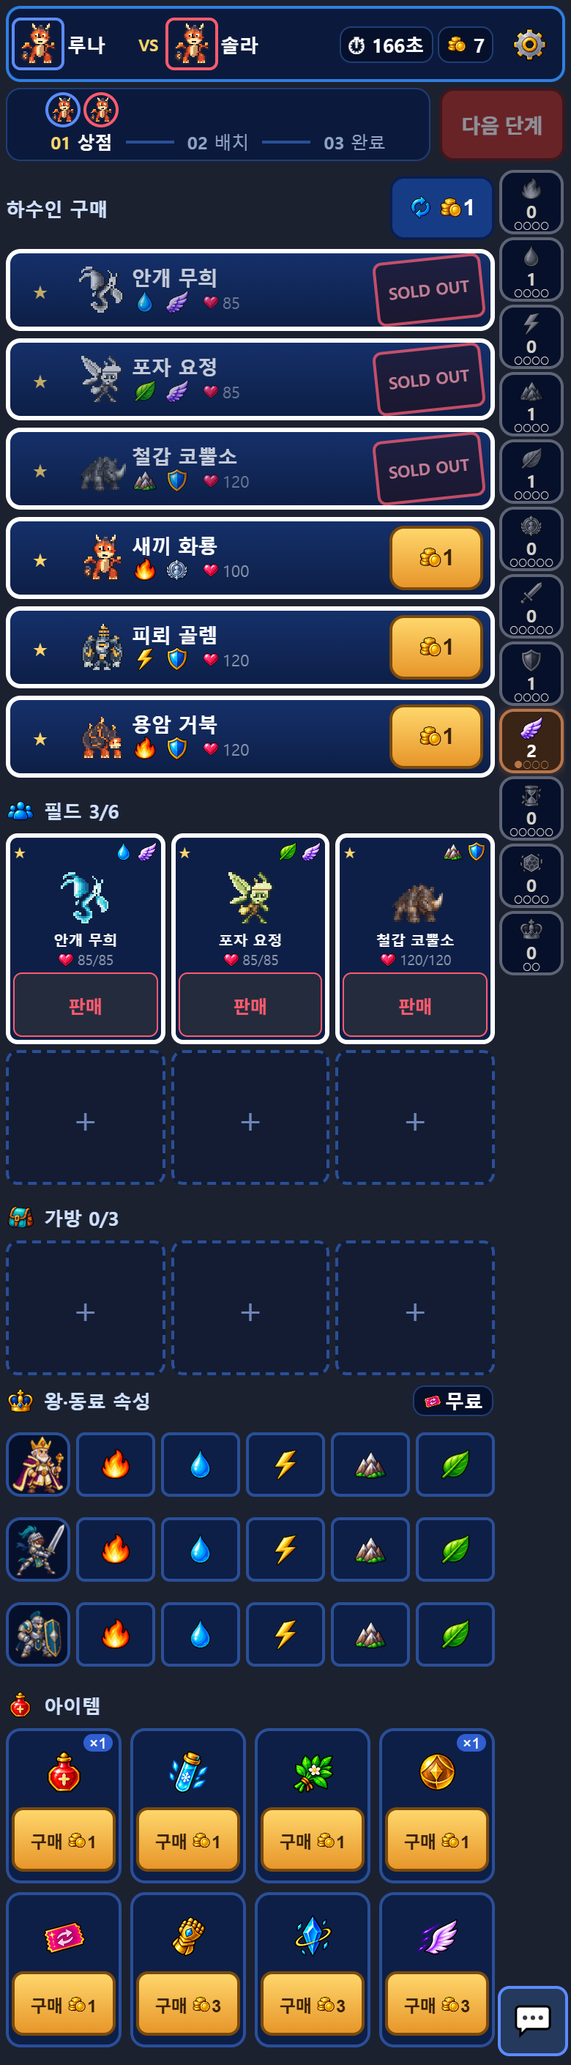
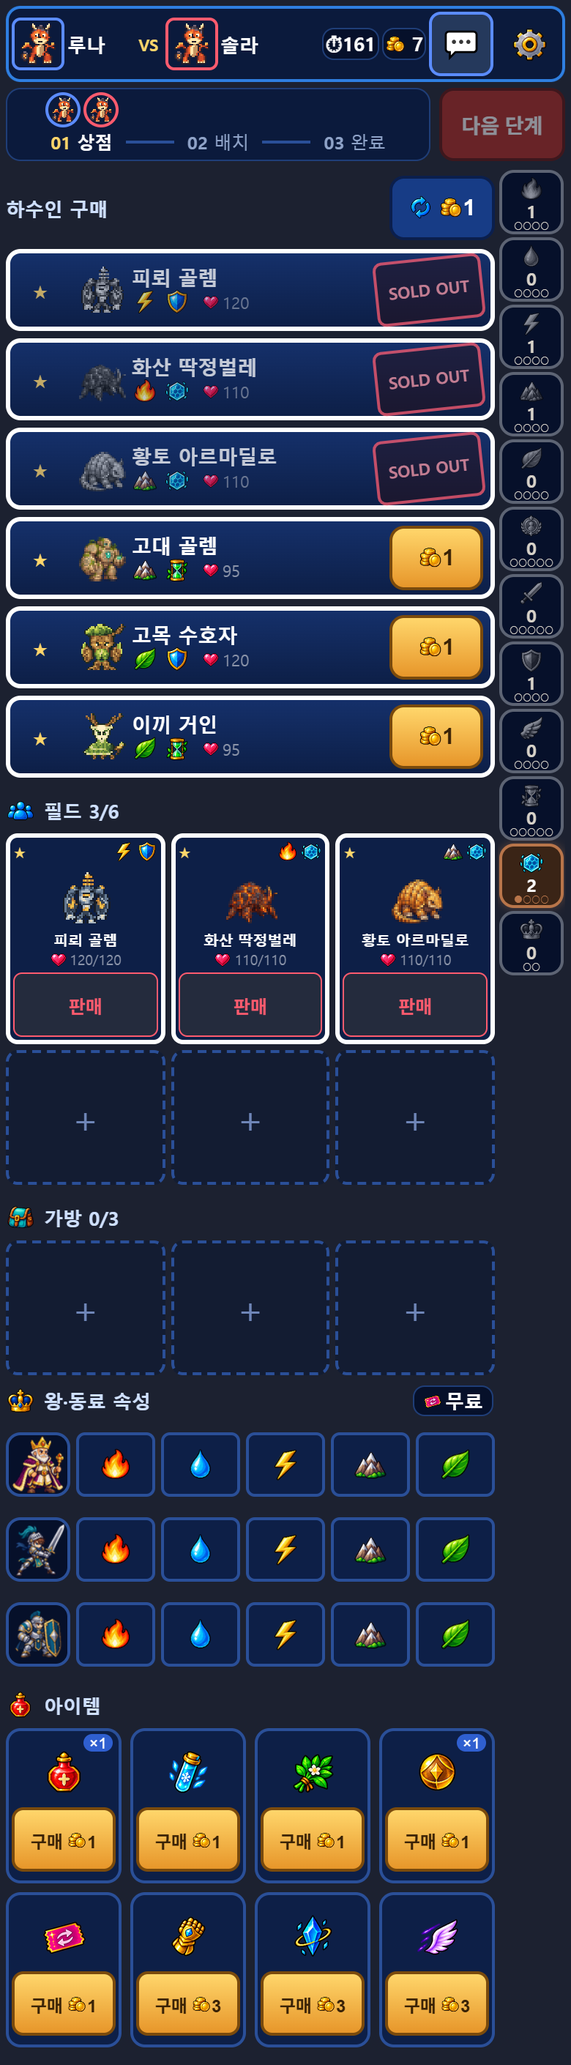
feat: connect digit-duel.site and align start-shop emotes (#313)

diff --git a/demo/css/game.css b/demo/css/game.css
@@ -1204,9 +1204,9 @@ body:has(#emoteLayer.inRoom:not(.hidden)) .waitScreen .chatLock{margin-right:58p
 #app[data-flow] .prepStep{display:flex; flex-direction:column; gap:6px;}
 #app[data-flow] .prepStep[data-step="place"]{display:contents;} /* 트레이가 말판과 같은 스크롤 상자의 자식이어야 아래에 붙는다(sticky) — 말판 13행과 트레이가 한 화면에 든다 */
 #app[data-flow] #toasts{top:112px;} /* 상단 한 줄·진행 막대를 가리지 않게 그 아래로 */
-/* 이모티콘 버튼은 ⚙ 와 겹치지 않게 시너지 열 아래 빈 자리(오른쪽 아래)로 — 팝오버는 그 위로 열린다 */
-#app[data-flow] ~ #emoteLayer #emoteBtn{top:calc(100dvh - 54px); right:2px;}
-#app[data-flow] ~ #emoteLayer #emotePop{top:auto; bottom:calc(58px - 100dvh);}
+#app[data-flow] ~ #emoteLayer #emoteBtn{top:var(--emoT,4px); right:var(--emoR,54px); min-width:44px; height:44px; font-size:20px;} /* #313 CJ: 턴 상점과 같은 상단 한 줄 ⚙ 왼쪽 자리(emoteSync 가 잰다) */
+#app[data-flow] ~ #emoteLayer #emotePop{top:calc(var(--emoT,4px) + 50px);}
+.flowHead .tbTools .emoSlot{height:44px;}
 #app[data-flow] ~ #emoteLayer #emoteBubs{top:110px;}
 #app[data-flow][data-prep="roster"] .prepStep[data-step="place"],#app[data-flow][data-prep="place"] .prepStep[data-step="roster"]{display:none;}
 .flowHead{order:-1; position:sticky; top:0; z-index:5; flex:0 0 auto; margin-right:-48px; padding:4px 0; display:flex; flex-direction:column; gap:4px;
@@ -1455,11 +1455,11 @@ body .overlay:has(.shopSheet.turn){align-items:flex-start; padding-top:var(--app
 .shopTop .flowBar{padding:0 4px;} .shopTop .synRail{right:2px;}
 .shopTop .synRail{max-height:calc(var(--appH) - 116px);} /* 프레임 높이 − 머리(상단 한 줄 52 + 완료 줄 44 + 간격) − 아래 여백 — 마지막 칩까지 열 안 스크롤로 닿는다 */
 /* 오른쪽 50% 한 줄: 내 시계 · 내 코인 · 이모티콘 자리 44 · ⚙ 44 (이모티콘이 꺼진 경기는 자리도 없다). 시계 칸은 숫자만 받아(.cmp) ⏱ · 초 · 정지(⏸)를 CSS 가 붙인다 — 전체 문장은 aria-label */
-.shopTop .tbTools{gap:3px; padding:0 2px 0 0;}
-.shopTop .tbTools .badge{flex:0 0 auto; overflow:visible; padding:2px 4px; font-size:13px; line-height:16px; font-variant-numeric:tabular-nums;}
+.shopTop .tbTools,.flowHead .tbTools{gap:3px; padding:0 2px 0 0;}
+.shopTop .tbTools .badge,.flowHead .tbTools .badge{flex:0 0 auto; overflow:visible; padding:2px 4px; font-size:13px; line-height:16px; font-variant-numeric:tabular-nums;}
 .shopTop .tbTools .emoSlot,.battleTop .tbTools .emoSlot{height:44px;}
-.shopTop .clk.cmp::before{content:"⏱ ";} .shopTop .clk.cmp::after{content:"초";} .shopTop .clk.cmp.pz::before{content:"⏸ ";}
-.shopTop .clk.pz{color:#ffd66b;}
+.clk.cmp::before{content:"⏱ ";} .clk.cmp::after{content:"초";} .clk.cmp.pz::before{content:"⏸ ";} /* #313: 시작 상점 #prepClock 도 같은 짧은 시계 */
+.clk.pz{color:#ffd66b;}
 /* 같은 이모티콘 버튼 하나가 그 자리에 — 자리의 실제 위 · 오른쪽 끝은 emoteSync 가 잰다(안쪽 스크롤 막대 · PC 프레임 포함) */
 body:has(#overlay:not(.hidden) .shopSheet.turn) #emoteLayer #emoteBtn,body:has(#overlay:not(.hidden) .battleTop) #emoteLayer #emoteBtn{top:var(--emoT,8px); right:var(--emoR,54px); min-width:44px; height:44px; font-size:20px;}
 body:has(#overlay:not(.hidden) .shopSheet.turn) #emoteLayer #emotePop,body:has(#overlay:not(.hidden) .shopSheet.turn) #emoteLayer #emoteBubs,body:has(#overlay:not(.hidden) .battleTop) #emoteLayer #emotePop,body:has(#overlay:not(.hidden) .battleTop) #emoteLayer #emoteBubs{top:calc(var(--emoT,8px) + 50px);}
@@ -1474,14 +1474,14 @@ body:has(#overlay:not(.hidden) .shopSheet.turn) #emoteLayer #emotePop,body:has(#
 .shopSheet .shopCard.soldOut{opacity:1;} .shopSheet .shopCard.soldOut>*{opacity:.75;}
 /* 320: 시계 = 숫자만(정지는 왼쪽 두 줄 막대 + 색) · 코인 = 아이콘 + 숫자 — 세 자리 초 · 세 자리 코인 · 이모티콘 44 · ⚙ 44 가 한 줄에. 가장 긴 종 이름(7자)도 잘리지 않게 */
 @media (max-width:360px){ .shopSheet.turn{padding-right:50px;} .shopSheet.turn .shopTop{margin-right:-50px;}
-  .shopTop .tbTools{gap:1px; padding:0;} .shopTop .tbTools .emoSlot{margin-right:2px;}
-  .shopTop .tbTools .badge{padding:2px 1px; border:0; font-size:11px; letter-spacing:-.3px;} .shopTop .tbTools .badge .gi{font-size:11px;}
-  .shopTop .clk.cmp::before,.shopTop .clk.cmp::after,.shopTop .clk.cmp.pz::before{content:none;} .shopTop .tbTools .clk.pz{border-left:3px double #ffd66b; padding-left:2px;}
+  .shopTop .tbTools,.flowHead .tbTools{gap:1px; padding:0;} .shopTop .tbTools .emoSlot,.flowHead .tbTools .emoSlot{margin-right:2px;}
+  .shopTop .tbTools .badge,.flowHead .tbTools .badge{padding:2px 1px; border:0; font-size:11px; letter-spacing:-.3px;} .shopTop .tbTools .badge .gi,.flowHead .tbTools .badge .gi{font-size:11px;}
+  .clk.cmp::before,.clk.cmp::after,.clk.cmp.pz::before{content:none;} .tbTools .clk.pz{border-left:3px double #ffd66b; padding-left:2px;}
   .shopSheet.turn .shopCard{gap:4px;} .shopSheet.turn .shopCard .nm b{font-size:12.5px;} }
 /* 정지 중: 시트 위 잠금 안내 줄은 상단 한 줄을 밀어낸다 — 정기 상점에서는 화면 밖 접근성 전용(role=status 유지). 정지는 가운데 X01 창 · 시계 ⏸ 가 보인다 */
 fieldset.pauseLock:has(>.shopSheet.turn)>small{position:absolute; width:1px; height:1px; overflow:hidden; clip:rect(0 0 0 0); white-space:nowrap;}
 /* ≤420(모바일 390 등): 시계는 '⏱180'(초 글자 없이 · 정지는 ⏸) — 오른쪽 50% 를 넘어 신원 칸으로 밀려나지 않게. 전체 문장은 aria-label */
-@media (max-width:420px) and (min-width:361px){ .shopTop .tbTools{gap:2px;} .shopTop .tbTools .emoSlot{margin-right:1px;} .shopTop .tbTools .badge{padding:2px 1px;} .shopTop .clk.cmp::before{content:"⏱";} .shopTop .clk.cmp.pz::before{content:"⏸";} .shopTop .clk.cmp::after{content:none;} }
+@media (max-width:420px) and (min-width:361px){ .shopTop .tbTools,.flowHead .tbTools{gap:2px;} .shopTop .tbTools .emoSlot,.flowHead .tbTools .emoSlot{margin-right:1px;} .shopTop .tbTools .badge,.flowHead .tbTools .badge{padding:2px 1px;} .clk.cmp::before{content:"⏱";} .clk.cmp.pz::before{content:"⏸";} .clk.cmp::after{content:none;} }
 /* ===== #296 전투 화면 (CJ 콘티 2026-10-02) — 기존 부품(.topBar · .synChip · .skillCmd · #bstage) 위의 배치만. 새 자산 · 새 렌더러 없음 =====
    위에서부터: 공용 신원 한 줄 / 차례 + 왕국·개인 칩 / 라운드 + 내 시계 + 아키타입 칩 / 무대(상대 정보 좌상 · 상대 그림 우상 · 내 그림 좌하 · 내 정보 우하) / 전투 메시지 / 행동 */
 #overlayBox.battleBox .battleTop{margin:-6px -6px 6px; position:sticky; top:-6px; z-index:5; background:var(--panel); box-shadow:0 -8px 0 var(--panel);} /* 상점 상단 줄처럼 창 안 스크롤에도 제자리 — 고정 층의 이모티콘 버튼이 자리에서 떨어지지 않는다. top = 위 여백(-6px)과 같은 값(기준은 창의 안쪽 여백 끝)이라 스크롤 전 자리 그대로 · 위 8px 틈은 그림자로 가린다 */

diff --git a/demo/js/ui.js b/demo/js/ui.js
@@ -1174,7 +1174,7 @@ function emoteSync(){
   try{ L.classList.toggle("inRoom",!!cl); L.style.top=cl&&cl.getBoundingClientRect?Math.round(cl.getBoundingClientRect().top)+"px":""; }catch(e){}
   /* 말판 상단 한 줄의 감정표현 자리(.emoSlot) 실제 오른쪽 끝에 맞춘다 — 말판 안쪽 스크롤 막대가 생기면 ⚙·자리가 그 폭만큼 왼쪽으로 가므로 고정 px 로는 ⚙와 겹친다. 자리가 없으면 CSS 기본값 */
   /* #295 CJ REVISE: 정기 상점 시트가 열려 있으면 그 상단 한 줄의 자리(.shopTop .emoSlot)가 우선 — 같은 버튼 하나가 그 자리에 놓인다(위쪽 --emoT 는 상점 규칙만 읽는다) */
-  try{ const sl=document.querySelector?document.querySelector("#overlay:not(.hidden) .shopTop .emoSlot,#overlay:not(.hidden) .battleTop .emoSlot")||document.querySelector("#boardInfo .emoSlot"):null, r=sl&&sl.getBoundingClientRect?sl.getBoundingClientRect():null, lr=r&&r.width?L.getBoundingClientRect():null;
+  try{ const sl=document.querySelector?document.querySelector("#overlay:not(.hidden) .shopTop .emoSlot,#overlay:not(.hidden) .battleTop .emoSlot")||document.querySelector("#boardInfo .emoSlot,.flowHead .emoSlot"):null, r=sl&&sl.getBoundingClientRect?sl.getBoundingClientRect():null, lr=r&&r.width?L.getBoundingClientRect():null;
     L.style.setProperty("--emoR",lr?Math.round(lr.right-r.right)+"px":""); L.style.setProperty("--emoT",lr?Math.round(r.top-lr.top)+"px":""); }catch(e){}
   const set=/** @type {HTMLFieldSetElement} */($("emoteSet"));
   if(!set.innerHTML) set.innerHTML=EMOTES.map(([id,e,ko])=>`<button type="button" data-emote="${id}" onclick="emoteSend('${id}')">${e} ${ko}</button>`).join("");
@@ -1948,7 +1948,7 @@ function prepClockStart(){
   if(NET.mode||!fxLive()||PREPCLK.g===S||isAI(S.setupPlayer)) return;   // 같은 경기의 다시 그리기·차례 넘김 = 마감 유지 · 사람 좌석이 있을 때만
   prepClockStop(); PREPCLK.g=S; PREPCLK.dl=Date.now()+ECO.prepSec*1000;
   PREPCLK.t=setTimeout(prepClockFire,ECO.prepSec*1000);
-  PREPCLK.iv=setInterval(()=>{ const el=$("prepClock"); if(el) el.textContent=turnClockText("prep"); },500);
+  PREPCLK.iv=setInterval(prepClockPaint,500);
 }
 function prepClockFire(){
   const g=PREPCLK.g; clearInterval(PREPCLK.iv); PREPCLK.iv=PREPCLK.t=null;
@@ -2054,7 +2054,8 @@ function turnClockLate(kind){
   return !!c&&c.expired;
 }
 function turnClockTick(){
-  for(const k of [["prepClock","prep"],["actClock","act"],["battleClock","battle"]]){ const el=$(k[0]); if(el) el.textContent=turnClockText(k[1]); }
+  prepClockPaint();
+  for(const k of [["actClock","act"],["battleClock","battle"]]){ const el=$(k[0]); if(el) el.textContent=turnClockText(k[1]); }
   /* 온라인에서 서버 마감이 지나는 순간 — 푸시가 오기 전에도 조작 버튼을 그 자리에서 잠근다(표시 간격이 알아챈다).
      지나간 뒤 한 번만 다시 그린다: render → turnClockSync → 여기로 돌아와도 late 가 그대로라 되풀이되지 않는다. */
   if(!NET.publicMode) return;
@@ -2262,6 +2263,7 @@ function flowHeadHtml(p,btn){
   const clock=`<span class="badge clk" id="prepClock" role="timer">${turnClockText("prep")}</span>`; // 공통 180초 — 준비 완료 뒤에도 계속 보인다
   return `<header class="flowHead">`+topBarHtml(p,clock
     +`<span class="badge coin" aria-label="재화 ${S.eco.coins[p]}">${gi("coin","cn")} ${S.eco.coins[p]}</span>`
+    +(emoteActive()?`<span class="emoSlot" aria-hidden="true"></span>`:"") // #313 CJ: 시작 상점도 턴 상점과 같은 ⚙ 왼쪽 자리
     +gearHtml(uiPubPrestart()?`<button type="button" class="danger" onclick="uiLeaveConfirm()">방 나가기</button>`:`<button type="button" class="danger" onclick="uiBack()">로비로 돌아가기</button>`))
     +`<div class="flowBar">`
     +`<ol class="flowSteps" aria-label="진행 단계 — ${nm(0)}: ${STEP[my]}${op>=0?` · ${nm(1)}: ${STEP[op]}`:""}">${STEP.map((t,i)=>`<li${i===my?` class="cur" aria-current="step"`:i<my?` class="past"`:""}><span class="mks" aria-hidden="true">${i===my?`<span class="mk me">${mk(0)}</span>`:""}${i===op?`<span class="mk op">${mk(1)}</span>`:""}</span><span><b>0${i+1}</b> ${t}</span></li>`).join("")}</ol>${btn}</div>`
@@ -2304,10 +2306,16 @@ function shopClockStart(p){
 /* #295 CJ REVISE 후속: 정기 상점 상단 한 줄(시계 · 코인 · 이모티콘 · ⚙)에 들어가게 시트의 시계 칸(#shopClock)만 짧게 그린다 — 온라인 · 오프라인 tick 이 같이 쓴다.
    값은 shopClockText 와 같은 출처(온라인 = 서버 시계 netClockMs · 오프라인 = 이 좌석 SHOPCLK 마감). 보이는 글자는 초 숫자뿐이고 ⏱/⏸ · '초'는 폭에 따라 CSS(.cmp · .pz)가 붙인다.
    전체 문장(초 · 정지 · 확인 중)은 aria-label. 온라인에서 서버 시계가 없으면 숫자를 지어내지 않고 '…', 오프라인에서 시계가 없는 좌석(AI · 가림)은 종전처럼 빈 칸 */
-function shopClockPaint(p){ const el=$("shopClock"); if(!el) return; const pub=NET.publicMode, c=pub?NET.ecoClock:null;
-  const sec=pub?(c?Math.max(0,Math.ceil(netClockMs(c)/1000)):null):SHOPCLK.key&&SHOPCLK.key.endsWith(":"+p)?Math.max(0,Math.ceil((SHOPCLK.dl-Date.now())/1000)):null, pz=!!c&&!c.running;
-  el.textContent=sec!==null?String(sec):pub?"…":"";
-  try{ if(sec===null&&!pub) el.removeAttribute("aria-label"); else el.setAttribute("aria-label",sec===null?"남은 시간 확인 중":`남은 시간 ${sec}초${pz?" · 정지":""}`); }catch(e){}
+function shopClockPaint(p){ const pub=NET.publicMode, c=pub?NET.ecoClock:null;
+  const sec=pub?(c?Math.max(0,Math.ceil(netClockMs(c)/1000)):null):SHOPCLK.key&&SHOPCLK.key.endsWith(":"+p)?Math.max(0,Math.ceil((SHOPCLK.dl-Date.now())/1000)):null;
+  clockPaint($("shopClock"),sec,pub?"…":"",!!c&&!c.running); }
+/* #313 CJ: 시작 상점 상단 한 줄도 이모티콘 자리를 받는다 — 준비 시계(#prepClock)를 정기 상점 시계와 같은 짧은 모양으로. 값은 turnClockText("prep") 와 같은 출처, 시계가 없으면 종전처럼 빈 칸 */
+function prepClockPaint(){ const pub=NET.publicMode, c=pub&&NET.ecoClock&&NET.ecoClock.key==="prep"?NET.ecoClock:null;
+  const sec=pub?(c?Math.max(0,Math.ceil(netClockMs(c)/1000)):null):PREPCLK.g===S&&PREPCLK.dl&&S.phase==="setup"?Math.max(0,Math.ceil((PREPCLK.dl-Date.now())/1000)):null;
+  clockPaint($("prepClock"),sec,"",!!c&&!c.running); }
+function clockPaint(el,sec,none,pz){ if(!el) return;
+  el.textContent=sec!==null?String(sec):none;
+  try{ if(sec===null&&!none) el.removeAttribute("aria-label"); else el.setAttribute("aria-label",sec===null?"남은 시간 확인 중":`남은 시간 ${sec}초${pz?" · 정지":""}`); }catch(e){}
   try{ el.classList.toggle("cmp",sec!==null); el.classList.toggle("pz",pz); }catch(e){} }
 function shopClockStop(){ clearTimeout(SHOPCLK.t); clearInterval(SHOPCLK.iv); SHOPCLK.t=SHOPCLK.iv=SHOPCLK.key=null; SHOPCLK.dl=0; }
 function shopClockText(p){ if(NET.publicMode) return netClockText(); return SHOPCLK.key&&SHOPCLK.key.endsWith(":"+p)?`⏱ ${Math.max(0,Math.ceil((SHOPCLK.dl-Date.now())/1000))}초`:""; }

diff --git a/server/authoritative/test/test-public-deploy.js b/server/authoritative/test/test-public-deploy.js
@@ -62,6 +62,25 @@ function unitTests() {
     eq(m.peerAllowed('192.168.1.5'), true, 'LAN 옵트인 — 사설 대역 피어 허용');
   });
 
+  section('#313 Host 허용 — 커스텀 도메인 + Render 주입 기본 주소(대체·롤백), 그 밖은 거부');
+  const CUSTOM = 'digit-duel.site';
+  const FALLBACK = 'digit-duel-mipa.onrender.com';
+  withEnv({ DD_AUTH_PUBLIC_DEPLOY: '1', DD_AUTH_PUBLIC_HOST: CUSTOM, RENDER_EXTERNAL_HOSTNAME: FALLBACK }, (m) => {
+    eq(m.allowedHost(CUSTOM), true, '커스텀 도메인 허용');
+    eq(m.allowedHost('Digit-Duel.Site:443'), true, '커스텀 도메인 대소문자·포트 표기 허용');
+    eq(m.allowedHost(FALLBACK), true, 'Render 주입 기본 주소 허용');
+    eq(m.allowedHost('evil.example'), false, '모르는 Host 거부');
+    eq(m.allowedHost('www.' + CUSTOM), false, 'www 등 하위 도메인은 자동 허용하지 않음(와일드카드 없음)');
+    eq(m.allowedHost('127.0.0.1:8081'), true, '루프백(로컬 헬스체크 등) 기존대로 허용');
+  });
+  withEnv({ DD_AUTH_PUBLIC_DEPLOY: '1', DD_AUTH_PUBLIC_HOST: CUSTOM, RENDER_EXTERNAL_HOSTNAME: 'https://' + FALLBACK }, (m) => {
+    eq(m.allowedHost(FALLBACK), false, '형식 오류 주입값 — 허용 목록에 더하지 않음(닫힘)');
+    eq(m.allowedHost(CUSTOM), true, '형식 오류 주입값이어도 커스텀 도메인은 그대로 허용');
+  });
+  withEnv({ DD_AUTH_PUBLIC_DEPLOY: '', DD_AUTH_PUBLIC_HOST: '', RENDER_EXTERNAL_HOSTNAME: FALLBACK }, (m) => {
+    eq(m.allowedHost(FALLBACK), false, '공개 배포 옵트인 없음 — 주입값을 허용하지 않음(닫힘)');
+  });
+
   section('PORT 우선순위 — DD_AUTH_PORT > PORT(플랫폼 주입) > 8081');
   withEnv({ DD_AUTH_PORT: '', PORT: '' }, (m) => eq(m.PORT, 8081, '둘 다 미설정 — 기본 8081'));
   withEnv({ DD_AUTH_PORT: '', PORT: '9500' }, (m) => eq(m.PORT, 9500, 'PORT만 설정(Render 방식) — PORT 사용'));
@@ -78,7 +97,7 @@ function startServer(env) {
       env: {
         ...process.env,
         DD_AUTH_PORT: '', PORT: '0', DD_LAN: '0', DD_AUTH_BIND: '',
-        DD_AUTH_PUBLIC_DEPLOY: '', DD_AUTH_PUBLIC_HOST: '',
+        DD_AUTH_PUBLIC_DEPLOY: '', DD_AUTH_PUBLIC_HOST: '', RENDER_EXTERNAL_HOSTNAME: '',
         ...env,
       },
       stdio: ['ignore', 'pipe', 'pipe'],
@@ -141,7 +160,8 @@ function requestOnce(port, opts) {
 
 async function acceptAndProxyTests() {
   section('정상 설정 — Render 방식(PORT만, DD_AUTH_PORT 미설정)으로 공개 배포 기동');
-  const started = await startServer({ DD_AUTH_PUBLIC_DEPLOY: '1', DD_AUTH_PUBLIC_HOST: HOST, PORT: '0' });
+  const RENDER_DEFAULT = 'digit-duel-readiness-default.onrender.com';
+  const started = await startServer({ DD_AUTH_PUBLIC_DEPLOY: '1', DD_AUTH_PUBLIC_HOST: HOST, RENDER_EXTERNAL_HOSTNAME: RENDER_DEFAULT, PORT: '0' });
   ok(started.code === null && /listening/.test(started.out), 'listen 성공: ' + started.out);
   ok(/공개 배포\(WAN\)/.test(started.out), '공개 배포 모드로 안내: ' + started.out);
   ok(/0\.0\.0\.0/.test(started.out), 'PUBLIC_DEPLOY 기본 바인드 — 0.0.0.0(DD_AUTH_BIND 미지정): ' + started.out);
@@ -154,6 +174,9 @@ async function acceptAndProxyTests() {
       // 리버스 프록시가 원본 Host/Origin을 그대로 전달했다고 가정한 요청.
       const good = await requestOnce(port, { headers: { Host: HOST, Origin: 'https://' + HOST } });
       ok(good.status === 200 && good.body === 'ok', '프록시가 전달한 실제 배포 Host/Origin — 200: ' + JSON.stringify(good));
+
+      const fallback = await requestOnce(port, { headers: { Host: RENDER_DEFAULT, Origin: 'https://' + RENDER_DEFAULT } });
+      ok(fallback.status === 200, '#313 Render 주입 기본 주소 Host/Origin — 대체 경로 200: ' + JSON.stringify(fallback));
 
       const badHost = await requestOnce(port, { headers: { Host: 'evil.example', Origin: 'https://evil.example' } });
       ok(badHost.status === 400, '허용 목록 밖 Host — 공개 배포 모드에서도 여전히 400: ' + JSON.stringify(badHost));

diff --git a/server/authoritative/server.js b/server/authoritative/server.js
@@ -45,6 +45,12 @@ const LAN_OPT_IN = process.env.DD_LAN === '1' || process.argv.includes('--lan');
 const PUBLIC_DEPLOY = process.env.DD_AUTH_PUBLIC_DEPLOY === '1';
 const PUBLIC_HOST = process.env.DD_AUTH_PUBLIC_HOST || null; // §2.1 DD_PUBLIC_HOST 상당
 const PUBLIC_HOST_CHECK = PUBLIC_HOST ? S.validatePublicHost(PUBLIC_HOST) : { ok: true, host: null };
+// #313 커스텀 도메인 — DD_AUTH_PUBLIC_HOST 를 공식 도메인으로 바꿔도 Render 가 주입하는 기본 onrender.com 주소
+// (RENDER_EXTERNAL_HOSTNAME)를 기술 대체·롤백 경로로 함께 허용한다. 공개 배포 옵트인일 때만, 같은 형식 검증을 통과할 때만
+// 더한다 — 형식이 어긋나면 더하지 않고(닫힘) 경고만 남긴다(플랫폼 주입값 하나로 운영 서버 기동을 막지 않는다).
+const RENDER_HOST_RAW = process.env.RENDER_EXTERNAL_HOSTNAME || null;
+const RENDER_HOST_CHECK = PUBLIC_DEPLOY && RENDER_HOST_RAW ? S.validatePublicHost(RENDER_HOST_RAW) : { ok: false, reason: 'absent' };
+const PUBLIC_HOSTS = [PUBLIC_HOST_CHECK.host, RENDER_HOST_CHECK.ok && RENDER_HOST_CHECK.host].filter(Boolean);
 
 // #276 네이티브 HTTPS 옵트인 — LAN 에서 로그인하려면 TLS 가 필요하다(평문 원격 인증은 accounts.transport() 가 계속 403).
 // 둘 다 없으면 기존 HTTP 그대로(Render 는 엣지 TLS). 둘 다 있으면 같은 포트·핸들러·WebSocket 을 TLS 로 연다.
@@ -133,7 +139,7 @@ function peerAllowed(ip) {
 }
 
 function allowedHost(hostHeader) {
-  return S.isAllowedHost(hostHeader, PUBLIC_HOST ? [PUBLIC_HOST.toLowerCase()] : []);
+  return S.isAllowedHost(hostHeader, PUBLIC_HOSTS);
 }
 
 function bucketFor(map, ip, capacity, refill) {
@@ -708,7 +714,9 @@ function listen() {
     console.log(`  접속 주소: ${SCHEME}://127.0.0.1:${actual}`);
     if (TLS.options) console.log('  TLS: 네이티브 HTTPS(TLS 1.2+) — 인증서가 이 접속 주소의 이름을 담고 접속 기기가 그 인증서를 신뢰해야 한다');
     if (PUBLIC_DEPLOY) {
-      console.log(`  WAN 접속 주소(플랫폼 도메인): https://${PUBLIC_HOST}`);
+      console.log(`  WAN 접속 주소(공식 도메인): https://${PUBLIC_HOST}`);
+      if (RENDER_HOST_CHECK.ok && RENDER_HOST_CHECK.host !== PUBLIC_HOST_CHECK.host) console.log(`  플랫폼 기본 주소(대체·롤백, Host 허용): https://${RENDER_HOST_CHECK.host}`);
+      else if (RENDER_HOST_RAW && !RENDER_HOST_CHECK.ok) console.log(`  경고: RENDER_EXTERNAL_HOSTNAME 형식 오류(사유: ${RENDER_HOST_CHECK.reason}) — Host 허용 목록에 더하지 않았다`);
       console.log('  주의: 이 모드는 소켓 피어 IP를 신뢰 경계로 쓰지 않는다 — Host·Origin·좌석 토큰만으로 막는다.');
       console.log('  주의: 리버스 프록시 뒤에서는 IP당 요청/연결 한도가 이 인스턴스 전체가 나누는 공유 한도가 된다(docs/milestone/v0.4.10/issues/217/Jupiter/deploy-readiness.md).');
     } else if (LAN_OPT_IN) {
@@ -735,4 +743,4 @@ function listen() {
 // 한 IP(루프백)에서 수십 건을 보내는 테스트가 예산에 막히지 않게 예산도 비운다.
 function useAccounts(a) { accounts = a; authBuckets.clear(); }
 
-module.exports = { server, wss, lobby, EPOCH, useAccounts, heartbeatTick, ROOT, parseCredential, presentedCredential, peerAllowed, PUBLIC_DEPLOY, PUBLIC_HOST, LAN_OPT_IN, PORT, SCHEME };
+module.exports = { server, wss, lobby, EPOCH, useAccounts, heartbeatTick, ROOT, parseCredential, presentedCredential, peerAllowed, allowedHost, PUBLIC_DEPLOY, PUBLIC_HOST, LAN_OPT_IN, PORT, SCHEME };

diff --git a/demo/test/regression/smoke_issue263_client.js b/demo/test/regression/smoke_issue263_client.js
@@ -130,10 +130,10 @@ try{
   /* B1 PVE — 준비 시계는 S01 이 열릴 때 한 번 서고, 상점을 직접 끝내 배치로 넘어가도 다시 서지 않는다 */
   const T=boot("pve",{aiLevel:"grade5"}), S=T.S;
   eq(T.ECO.prepSec,180,"B0 준비 시간 상수 = 180초");
-  eq(T.byId("prepClock").textContent,"⏱ 180초","B2 S01 표시 즉시 남은 시간 180초");
+  eq(T.byId("prepClock").getAttribute("aria-label"),"남은 시간 180초","B2 S01 표시 즉시 남은 시간 180초");
   adv(40000); buyAllAndDone(T,0); T.render(); T.render();
   ok(S.eco.shop.done[0]&&S.phase==="setup"&&T.UI.prep==="place","B1 S01 직접 완료 → 02 비공개 배치");
-  eq(T.byId("prepClock").textContent,"⏱ 140초","B3 상점 완료·다시 그리기는 마감을 되돌리지 않는다 (배치에 새 90초 없음)");
+  eq(T.byId("prepClock").getAttribute("aria-label"),"남은 시간 140초","B3 상점 완료·다시 그리기는 마감을 되돌리지 않는다 (배치에 새 90초 없음)");
   adv(P180-40000-1); ok(unplaced(T,0)>0&&S.phase==="setup","B4 179.999초엔 아직 배치 중");
   adv(1); ok(unplaced(T,0)===0&&S.phase==="play","B5 180초 만료 → 미배치 말 자동 배치 + 준비(경기 시작)");
   eq(T.byId("prepClock").textContent,"","B6 경기가 시작되면 준비 시계 표시가 비워진다 (.badge:empty 로 숨는다)")
@@ -143,7 +143,7 @@ try{
   const T1=boot("pve",{aiLevel:"grade5"}), S1=T1.S;
   buyAllAndDone(T1,0); T1.netAction({t:"auto"}); T1.render();
   eq(unplaced(T1,0),0,"B7 사람이 14개를 모두 배치했다");
-  eq(T1.byId("prepClock").textContent,"⏱ 180초","B8 다 놓아도 확정 전까지 준비 180초는 계속 흐른다 (교착 방지)");
+  eq(T1.byId("prepClock").getAttribute("aria-label"),"남은 시간 180초","B8 다 놓아도 확정 전까지 준비 180초는 계속 흐른다 (교착 방지)");
   const mine=S1.pieces.filter(x=>x.owner===0);
   const keep=mine.slice(2).map(x=>[x.id,x.r,x.c]);      // 직접 놓은 좌표 — 만료 뒤에도 그대로여야 한다
   mine[0].placed=false; mine[1].placed=false;           // 두 개만 미배치로 되돌려 "못 놓은 말만 채운다"를 본다
@@ -163,13 +163,13 @@ try{
 
   /* B15 핫시트 — 두 사람이 180초 하나를 함께 쓴다. 가림(handoff)·차례 넘김에 멈추지도 다시 서지도 않는다 */
   const T3=boot("pvp"), S3=T3.S;
-  eq(T3.byId("prepClock").textContent,"⏱ 180초","B15 P1 화면에서 공통 준비 180초 시작");
+  eq(T3.byId("prepClock").getAttribute("aria-label"),"남은 시간 180초","B15 P1 화면에서 공통 준비 180초 시작");
   adv(60000); buyAllAndDone(T3,0); T3.netAction({t:"auto"}); T3.netAction({t:"setupDone"});
   ok(S3.setupPlayer===1&&covered(T3),"B16 P1 직접 완료 → P2 가림");
   adv(60000); ok(S3.phase==="setup"&&!S3.eco.shop.done[1],"B17 가림이 떠 있는 동안에도 같은 시계가 흐른다 — 120초엔 아직 만료 전");
   ok(confirmCover(T3),"B18 가림 확인");
   T3.render();
-  eq(T3.byId("prepClock").textContent,"⏱ 60초","B19 P2 는 새 시간이 아니라 남은 60초 (재발급 없음)");
+  eq(T3.byId("prepClock").getAttribute("aria-label"),"남은 시간 60초","B19 P2 는 새 시간이 아니라 남은 60초 (재발급 없음)");
   adv(60000-1); ok(S3.phase==="setup"&&!S3.eco.shop.done[1],"B19a 179.999초엔 P2 진행 중");
   adv(1); ok(S3.phase==="play"&&unplaced(T3,1)===0&&T3.ecoEmptyField(S3,1).length===0,"B20 180초 만료 → P2 자동 구매·배치·준비 → 경기 시작");
 

diff --git a/demo/test/regression/smoke_issue236.js b/demo/test/regression/smoke_issue236.js
@@ -738,7 +738,7 @@ function openTicket(T,p){ const k=T.S.pieces.find(x=>x.owner===p&&x.type==="king
     /* Q1 PVE: S01 이 그려지는 순간부터 공통 준비 180초(ECO.prepSec) · 다시 그려도 마감 유지 · 만료 = 자동 구매 완료 */
     { const T=boot("pve",{aiLevel:"grade5"}), S=T.S;
       eq(T.ECO.prepSec,180,"Q1 준비 시간 상수 = 180초");
-      eq(T.byId("prepClock").textContent,"⏱ 180초","Q1 PVE S01 표시 즉시 남은 시간 180초");
+      eq(T.byId("prepClock").getAttribute("aria-label"),"남은 시간 180초","Q1 PVE S01 표시 즉시 남은 시간 180초");
       adv(40000); T.render(); T.render(); ok(T.byId("sidePanel").innerHTML.includes("⏱ 140초"),"Q1 다시 그리기는 마감을 되돌리지 않는다 (남은 140초)");
       adv(S180-40000-1); ok(!S.eco.shop.done[0],"Q1 PVE S01 179.999초엔 진행 중 (90초에 끝나지 않는다)");
       /* #263 (2026-09-25 CJ): 만료 좌석은 자동 구매에 이어 **자동 배치·준비**까지 그 자리에서 끝난다 */
@@ -756,7 +756,7 @@ function openTicket(T,p){ const k=T.S.pieces.find(x=>x.owner===p&&x.type==="king
     }
     /* Q2 핫시트 S01: 두 사람이 **180초 하나**를 함께 쓴다 — P1 이 30초에 직접 끝내면 P2 는 남은 시간뿐이고, 가림이 떠 있어도 그대로 흐른다 */
     { const H2=boot("pvp"), G=H2.S;
-      eq(H2.byId("prepClock").textContent,"⏱ 180초","Q2 P1 S01 표시 즉시 공통 180초 시작");
+      eq(H2.byId("prepClock").getAttribute("aria-label"),"남은 시간 180초","Q2 P1 S01 표시 즉시 공통 180초 시작");
       adv(30000);
       for(let n=0;n<6;n++) act(H2,{t:"shopBuy",player:0,i:H2.ecoBuyable(G,0),seq:G.eco.shop.seq[0]});
       act(H2,{t:"shopDone",player:0}); H2.render();
@@ -765,7 +765,7 @@ function openTicket(T,p){ const k=T.S.pieces.find(x=>x.owner===p&&x.type==="king
       ok(covered(H2)&&G.setupPlayer===1,"Q2 P1 배치 확정 → P2 가림");
       adv(100000); ok(G.phase==="setup"&&!G.eco.shop.done[1],"Q2 가림 중에도 같은 시계가 흐른다 — 130초엔 아직 만료 전");
       confirm(H2); ok(!covered(H2),"Q2 가림 확인 → P2 상점 표시");
-      eq(H2.byId("prepClock").textContent,"⏱ 50초","Q2 P2 는 새 180초가 아니라 남은 50초 (재발급·정지 없음)");
+      eq(H2.byId("prepClock").getAttribute("aria-label"),"남은 시간 50초","Q2 P2 는 새 180초가 아니라 남은 50초 (재발급·정지 없음)");
       adv(50000-1); ok(!G.eco.shop.done[1]&&G.phase==="setup","Q2 179.999초엔 P2 진행 중");
       adv(1); ok(H2.ecoEmptyField(G,1).length===0&&!G.pieces.some(x=>!x.placed)&&G.phase==="play","Q2 180초 만료 → P2 자동 구매 · 자동 배치 · 경기 시작"); }
     /* 아무도 끝내지 못한 채 만료 — 두 좌석을 차례로 자동 마무리해 시작한다 */

diff --git a/demo/test/regression/smoke_issue293.js b/demo/test/regression/smoke_issue293.js
@@ -208,6 +208,12 @@ const bar=h=>h.slice(h.indexOf('class="flowBar"'),h.indexOf('class="synRail"')>0
   let v=feed(), h=view();
   ok(stepOf(h)==="상점"&&opAt(h)===1&&!/flowOpp/.test(h),"E7 공개 방 S01: 두 표식 모두 01 상점(서버 seats.step) · 떨어진 상대 상자 없음");
   ok(P.byId("app").getAttribute("data-flow")==="1","E8 공통 틀 표시 속성(data-flow)");
+  { /* #313 시작 상점 이모티콘 = 턴 상점과 같은 상단 한 줄 ⚙ 왼쪽 자리(.flowHead .emoSlot)를 잰다. 스텁 DOM 은 innerHTML 을 풀지 않으므로 자리 조회만 가로챈다 */
+    const EL=P.byId("emoteLayer"), doc=EL.ownerDocument, q0=doc.querySelector;
+    EL.getBoundingClientRect=()=>({top:0,right:390,width:390});
+    doc.querySelector=s=>/\.flowHead \.emoSlot/.test(s)&&/class="flowHead"[\s\S]*class="emoSlot"[\s\S]*class="flowGear"/.test(view())?{getBoundingClientRect:()=>({top:4,right:340,width:44})}:q0(s);
+    P.render(); doc.querySelector=q0;
+    ok(EL.style["--emoT"]==="4px"&&EL.style["--emoR"]==="50px","E8b 시작 상점 이모티콘: 머리 ⚙ 왼쪽 자리를 잰다(--emoT 4px · --emoR 50px): "+EL.style["--emoT"]+"/"+EL.style["--emoR"]); }
   finish(1); v=feed(); const afterOpp=view();
   ok(JSON.stringify(v.seats.step)==='["shop","place"]'&&stepOf(afterOpp)==="상점"&&opAt(afterOpp)===2,"E9 상대가 상점을 끝내면 서버 seats.step 대로 상대 표식만 02 배치로 간다 (내 단계 그대로)");
   ok(Array.isArray(v.seats.ready)&&Array.isArray(v.seats.step)&&v.seats.step.length===2&&v.seats.step.every(x=>["shop","place","done"].includes(x)),"E10 서버 좌석 뷰 seats.step = shop/place/done 뿐");

diff --git a/server/README.md b/server/README.md
@@ -35,7 +35,8 @@ Render 는 저장소 루트에서 `npm ci --prefix server` / `npm start --prefix
 | `PORT` | (없음) | 플랫폼(Render 등)이 주입하는 포트. `DD_AUTH_PORT` 가 없을 때만 쓴다 |
 | `DD_AUTH_PORT` | `8081` | 명시하면 `PORT` 보다 우선(기존 로컬/LAN 실행기·문서 그대로) |
 | `DD_AUTH_PUBLIC_DEPLOY` | (없음) | `1` 이면 리버스 프록시 뒤 배포 모드. 소켓 피어 IP 검사를 건너뛰고 Host·Origin·좌석 토큰만으로 막는다. `DD_AUTH_PUBLIC_HOST` 없이 켜면 기동을 중단한다 |
-| `DD_AUTH_PUBLIC_HOST` | (없음) | 배포 도메인. 스킴·포트·경로 없이 호스트명만(`my-service.onrender.com`). 형식이 어긋나거나 사설/루프백 주소면 기동을 중단한다 |
+| `DD_AUTH_PUBLIC_HOST` | (없음) | 배포 도메인. 스킴·포트·경로 없이 호스트명만(`my-service.onrender.com`). 형식이 어긋나거나 사설/루프백 주소면 기동을 중단한다. #313 운영값은 공식 도메인 `digit-duel.site` |
+| `RENDER_EXTERNAL_HOSTNAME` | Render 주입 | 설정하지 않는다. `DD_AUTH_PUBLIC_DEPLOY=1` 이고 형식 검증을 통과하면 이 기본 `onrender.com` 주소도 Host 허용 목록에 더한다(커스텀 도메인 전환 후 대체·롤백 경로). 형식 오류면 더하지 않는다. 그 밖의 Host 는 400 |
 | `DD_AUTH_BIND` | 옵트인별 기본값 | 명시 지정 시 IP 리터럴만(`security.js` 의 `resolveBindAddress` 공유) |
 | `DD_AUTH_TLS_CERT` · `DD_AUTH_TLS_KEY` | (없음) | #276 네이티브 HTTPS(LAN 로그인용). 인증서·개인 키 PEM **절대 경로** 둘 다 주면 같은 포트·핸들러·WebSocket 을 HTTPS/WSS(TLS 1.2+)로 열고 안내 주소도 `https://` 다. 둘 다 없으면 기존 HTTP 그대로(Render 는 엣지 TLS 라 쓰지 않는다). 하나만·상대 경로·읽기 실패·PEM 오류·키 불일치면 HTTP 로 내려가지 않고 기동을 중단한다(사유는 오류 코드만). 개인 키는 Git 밖에 둔다. 인증서가 접속 주소 이름(내부망 IP)을 담고 접속 기기가 그것을 신뢰해야 한다 — 발급·신뢰 등록은 실행기(Mars) 몫 |
 

diff --git a/README.md b/README.md
@@ -9,7 +9,7 @@
   <a href="LICENSE"><img src="https://img.shields.io/badge/code-Apache--2.0-blue" alt="코드 라이선스 Apache-2.0"></a>
 </p>
 
-**[▶ 웹에서 플레이](https://digit-duel-mipa.onrender.com)** · 최신 릴리스 **[v0.4.13](https://github.com/ChangjoSung/Digit-Duel/releases/tag/v0.4.13)**
+**[▶ 웹에서 플레이](https://digit-duel.site)** · 최신 릴리스 **[v0.4.13](https://github.com/ChangjoSung/Digit-Duel/releases/tag/v0.4.13)**
 
 ## 게임 소개
 
@@ -66,7 +66,7 @@
 | 항목 | 내용 |
 | --- | --- |
 | 현재 정식 버전 | [v0.4.13](https://github.com/ChangjoSung/Digit-Duel/releases/tag/v0.4.13) |
-| 플레이 주소 | [digit-duel-mipa.onrender.com](https://digit-duel-mipa.onrender.com) |
+| 플레이 주소 | [digit-duel.site](https://digit-duel.site) |
 | 장르·인원 | 숨은 정체·속성 전투를 결합한 온라인 1대1 턴제 전략 |
 | 환경 | PC·휴대폰의 최신 브라우저, 인터넷과 가입용 이메일 |
 | 플랫폼 | HTML 웹 게임 |
@@ -75,7 +75,7 @@
 
 ## 플레이 방법
 
-1. [게임 페이지](https://digit-duel-mipa.onrender.com)에서 가입하거나 ID·비밀번호로 로그인합니다.
+1. [게임 페이지](https://digit-duel.site)에서 가입하거나 ID·비밀번호로 로그인합니다.
 2. 로비에서 **멀티플레이**를 누릅니다. 한 사람이 방을 만들고 상대가 참가합니다. 참가자가 준비하면 방장이 시작합니다.
 3. 공통 **180초** 안에 시작 상점에서 하수인 6명을 고르고 왕·동료 속성을 정한 뒤 말 14개를 배치합니다. 양쪽이 준비를 마치면 바로 시작합니다.
 4. 자기 차례 **30초** 안에 이동·탐색·회복·텔레포트를 선택합니다. 내 말의 정보는 오른쪽 **말 정보**에서 확인합니다.

diff --git a/docs/creat2ve/README_RELEASE_STYLE.md b/docs/creat2ve/README_RELEASE_STYLE.md
@@ -5,7 +5,7 @@ CJ의 #105 승인 방향을 유지한다. 2026-09-16 Notion GDD-19의 중복 문
 - README 구성: 게임 소개 / 게임 기능 / 플레이 사진 / 새로운 기능 / 게임 정보 / 플레이 방법 / 저장소 구조 / 라이선스.
 - 처음 방문한 플레이어에게 구체적인 게임 경험과 실행 순서를 짧게 설명한다. 내부 QA 수치·조정 이력은 관련 보고서에 둔다.
 - 플레이 사진은 2열 4행으로 로그인 / 메인 로비, 공개 방 목록 / 대기실, 전략 보드 / 속성 전투, 시작 상점 / 턴 상점 순서로 원본 링크와 함께 구성한다(CJ 2026-10-03 최신 지시).
-- 화면이 바뀐 버전에서는 다시 촬영한다. 로그인은 메인 로비와 높이를 맞춘다. UI가 잘리거나 아래에 빈 공간이 남지 않게 맞추고, 캡션에서 버전·불필요한 설명은 뺀다. 촬영 소스와 규격은 검수 기록에 남긴다.
+- 화면이 바뀐 버전에서는 다시 촬영한다. 로그인은 메인 로비, 속성 전투는 전략 보드와 높이를 맞춘다. UI가 잘리거나 아래에 빈 공간이 남지 않게 맞추고, 캡션에서 버전·불필요한 설명은 뺀다. 촬영 소스와 규격은 검수 기록에 남긴다.
 - 최신 정식 패치만 기능 추가·개선·버그 수정·밸런스 항목으로 소개한다. 과거 패치는 GitHub Releases로 연결한다.
 - 게임 정보의 버전·날짜·지원 환경·개발자·Star·Fork·출시 정보는 확인된 값을 쓴다. 개발 중 기능은 출시된 기능과 구분한다.
 - 시작 방법은 현행 공개 웹 주소와 승인된 실행 경로를 기준으로 갱신한다. 과거 LAN 전용 설명을 현재 외부망 서비스에 적용하지 않는다.

diff --git a/docs/releases/v0.4.13.md b/docs/releases/v0.4.13.md
@@ -11,6 +11,6 @@
 - [버그 수정] 방장 나가기·끊김 시 승계, 즉시 강퇴, 참가자 재연결 대기와 방·결과 화면 핑을 수정했습니다.
 - [밸런스] 수호자 3종의 구매가를 3코인으로 맞췄습니다.
 
-[웹에서 플레이](https://digit-duel-mipa.onrender.com) · [전체 변경 v0.4.12...v0.4.13](https://github.com/ChangjoSung/Digit-Duel/compare/v0.4.12...v0.4.13)
+[웹에서 플레이](https://digit-duel.site) · [전체 변경 v0.4.12...v0.4.13](https://github.com/ChangjoSung/Digit-Duel/compare/v0.4.12...v0.4.13)
 
 싱글플레이·Google 로그인·로비 상점·채팅은 잠겨 있습니다. 진행 중인 경기는 서버 재시작 시 복구되지 않으며 확정된 계정·전적은 남습니다.
